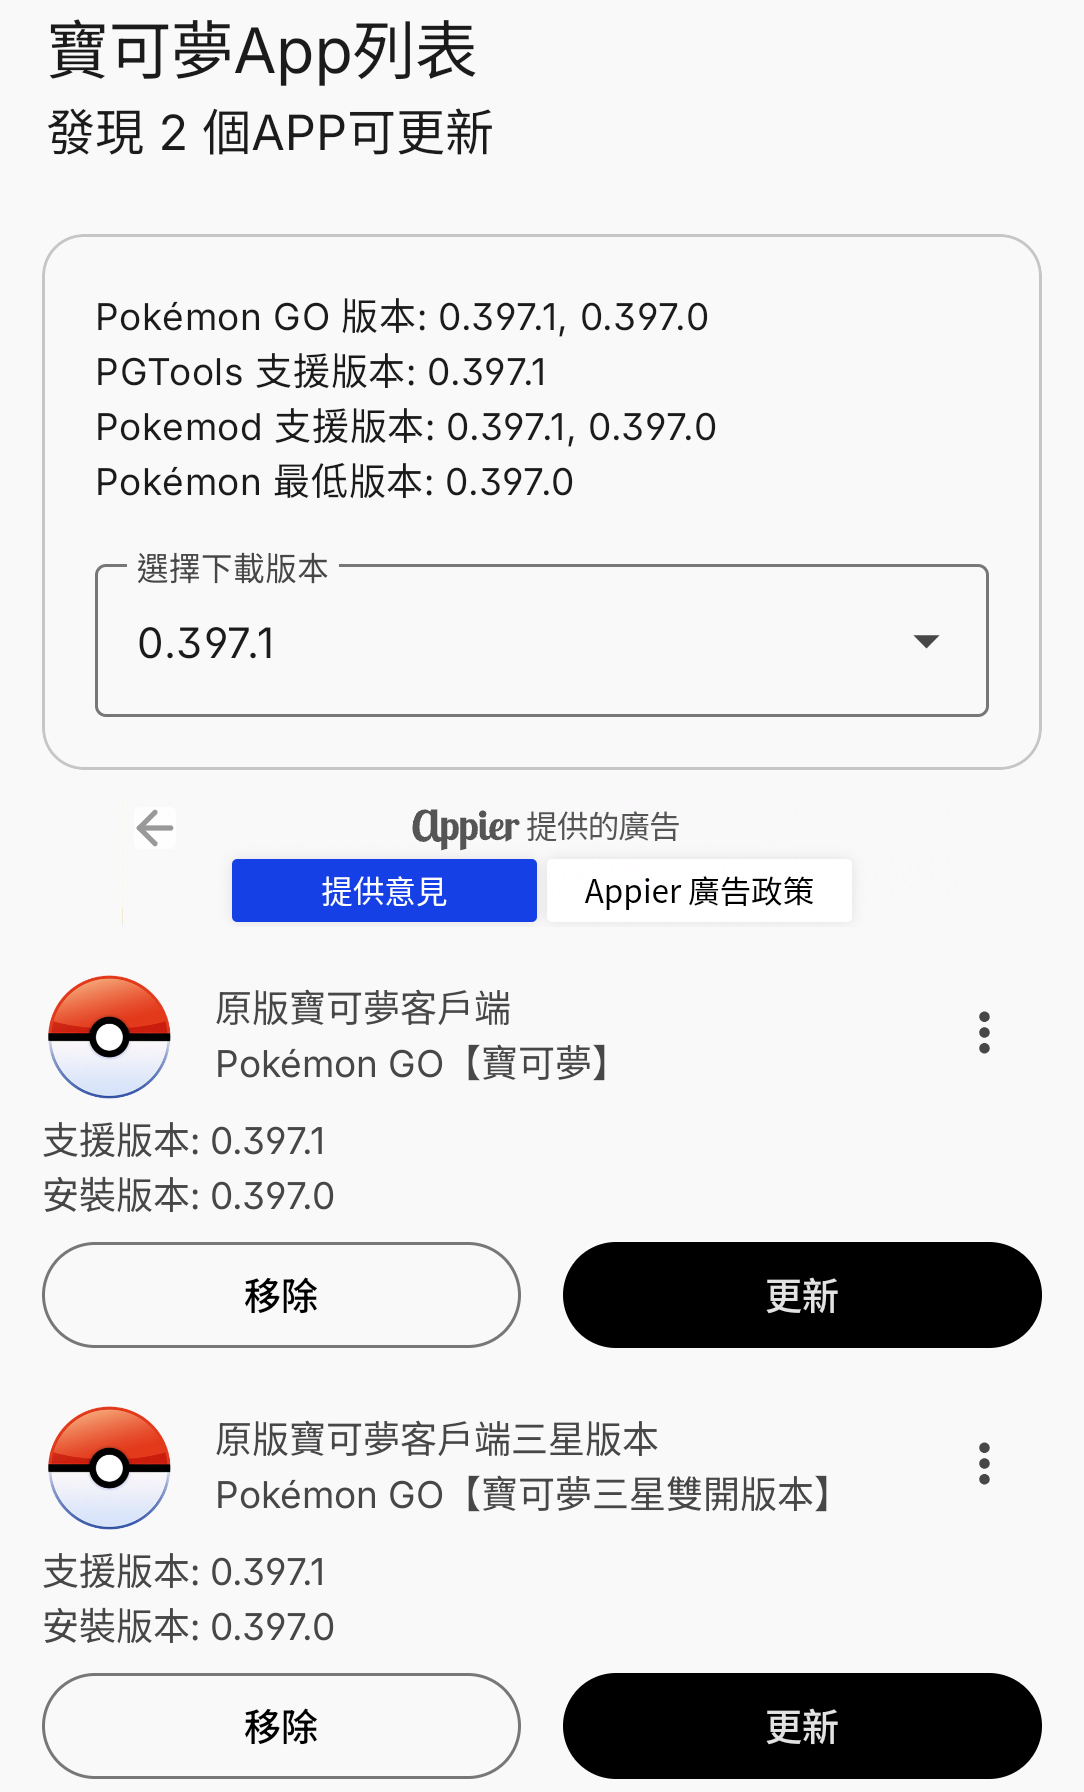
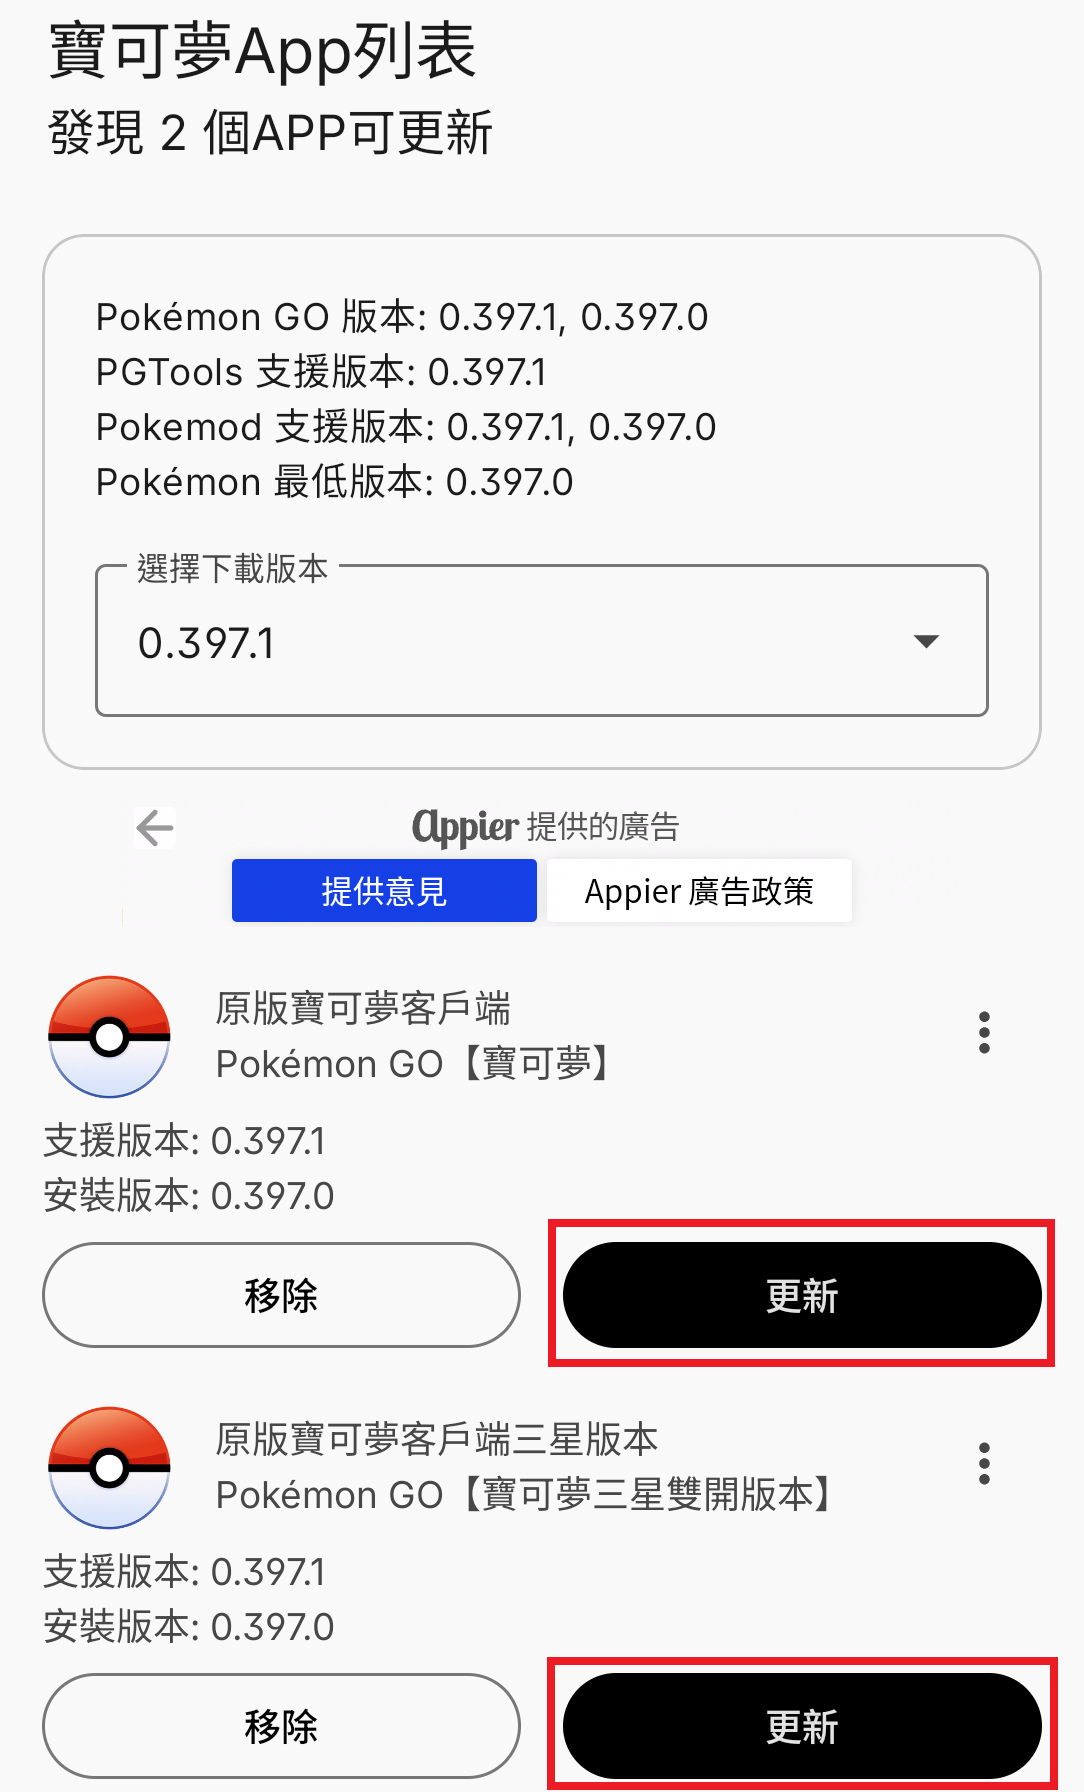
docs: update README.md & fix image link and size

Changed region(s): [[0.4871, 0.6562, 0.9742, 0.7812], [0.4871, 0.9062, 0.9742, 1.0]]

diff --git a/docs/README.md b/docs/README.md
@@ -79,15 +79,15 @@
 
 - 點選捷徑頁面按鈕
 
-	<img width="300" src="https://hackmd.io/_uploads/S1hdF8bH1g.jpg" style="margin-right:10px" />
+	<img width="300" src="https://raw.githubusercontent.com/lokey0905/POGO_Manager/master/docs/images/pogoManager_homeToShortCuts.png" style="margin-right:10px" />
 
 - 點選MIUI應用雙開捷徑按鈕
 
-	<img width="300" src="https://hackmd.io/_uploads/H1ml9L-BJg.jpg" style="margin-right:10px" />
+	<img width="500" src="https://raw.githubusercontent.com/lokey0905/POGO_Manager/master/docs/images/pogoManager_shortCutsMIXSpace.png" style="margin-right:10px" />
 
 - 打勾寶可夢選項即可
 
-	<img width="300" src="https://hackmd.io/_uploads/r1aQiI-S1l.jpg" style="margin-right:10px" />
+	<img width="500" src="https://raw.githubusercontent.com/lokey0905/POGO_Manager/master/docs/images/pogoManager_shortCutsMIXSpaceSwitch.png" style="margin-right:10px" />
 
 - 若有重新安裝或是更新完成後，請記得將裝置**重新啟動**
 - 若重開機後仍然顯示錯誤12，請依照[無法偵測位置12](#寶可夢顯示-無法偵測位置12)操作
@@ -95,11 +95,11 @@
 ### 寶可夢降版本
 - 可以在支援版本列表左下方選擇要下載的版本
 
-	<img width="500" src="https://hackmd.io/_uploads/Hk8MVrej0.jpg" style="margin-right:10px" />
+	<img width="500" src="https://raw.githubusercontent.com/lokey0905/POGO_Manager/master/docs/images/pogoManager_pokemonNewerVersion.png" style="margin-right:10px" />
 
 - 若選擇的版本低於安裝版本，則需要先移除才能繼續下載安裝
 
-	<img width="500" src="https://hackmd.io/_uploads/HJE_8BgjR.jpg" style="margin-right:10px" />
+	<img width="500" src="https://raw.githubusercontent.com/lokey0905/POGO_Manager/master/docs/images/pogoManager_pokemonNeedDowngrade.png" style="margin-right:10px" />
 
 - 移除過高的版本後，請重新[下載支援版本寶可夢](#%E5%AF%B6%E5%8F%AF%E5%A4%A2%E6%9B%B4%E6%96%B0%E6%95%99%E5%AD%B8)
 
@@ -110,7 +110,7 @@
 		2. 點選右上角︙按鈕
 		3. 取消打勾自動更新
 
-			 <img width="500" src="https://hackmd.io/_uploads/r1ZrzHlo0.jpg" style="margin-right:10px" />
+			 <img width="500" src="https://raw.githubusercontent.com/lokey0905/POGO_Manager/master/docs/images/playStoreDisableAutoUpdate.png" style="margin-right:10px" />
 	- 若無顯示重新啟動裝置後即可關閉
 - 若Play商店內顯示未安裝，或是已經取消自動更新，請操作[寶可夢降版本](#%E5%AF%B6%E5%8F%AF%E5%A4%A2%E9%99%8D%E7%89%88%E6%9C%AC)
 
@@ -118,7 +118,7 @@
 - 可先至寶可夢頁面上查看: 目前可安裝版本、各輔助軟體的支援版本與寶可夢最低可登入版本
 - 如果支援版本**低於**寶可夢最低可登入版本，則須等待輔助軟體團隊支援新版本後才能繼續使用
 
-	<img width="500" src="https://raw.githubusercontent.com/lokey0905/POGO_Manager/master/docs/images/docs/images/pogoManager_pokemonNewerVersion.png" style="margin-right:10px" />
+	<img width="500" src="https://raw.githubusercontent.com/lokey0905/POGO_Manager/master/docs/images/pogoManager_pokemonNewerVersion.png" style="margin-right:10px" />
 
 - 若更新檔案下載失敗，請先至Play商店更新寶可夢，並等待輔助軟體團隊更新支援
 
@@ -508,6 +508,7 @@
 - 2.每10分鐘1P、單日最多50P(8小時20分鐘）
 - 3.佔崗輪值無收入、需下崗才結算計薪
 
+
 # 常見問題
 ## 寶可夢顯示: 無法偵測位置(11)
 表示未偵測到手機定位
@@ -520,10 +521,19 @@
 5. 定位權限未設定正確
 	1. 打開pogo管理器的寶可夢/魔物獵人頁面
 	2. 點擊寶可夢/魔物獵人右邊的︙管理
+
+		<img width="500" src="https://raw.githubusercontent.com/lokey0905/POGO_Manager/master/docs/images/pogoManager_pokemonSettings.png"/>
+
 	3. 在點擊權限設定裡面的定位
+
+		<img width="500" src="https://raw.githubusercontent.com/lokey0905/POGO_Manager/master/docs/images/settingsPokemon.png"/>
+
+		<img width="500" src="https://raw.githubusercontent.com/lokey0905/POGO_Manager/master/docs/images/settingsPokemonPermissions.png"/>
+
 	4. 位置權限需打開精確位置(與定位精確度不同)
 
-		<img width="300" src="https://hackmd.io/_uploads/S1kSswX3C.jpg"/>
+		<img width="500" src="https://raw.githubusercontent.com/lokey0905/POGO_Manager/master/docs/images/settingsPokemonPermissionsLocation.png"/>
+
 6. 若重啟後還是一樣，請移除再重新安裝搖桿或寶可夢
 
 ## 寶可夢顯示: 無法偵測位置(12)
